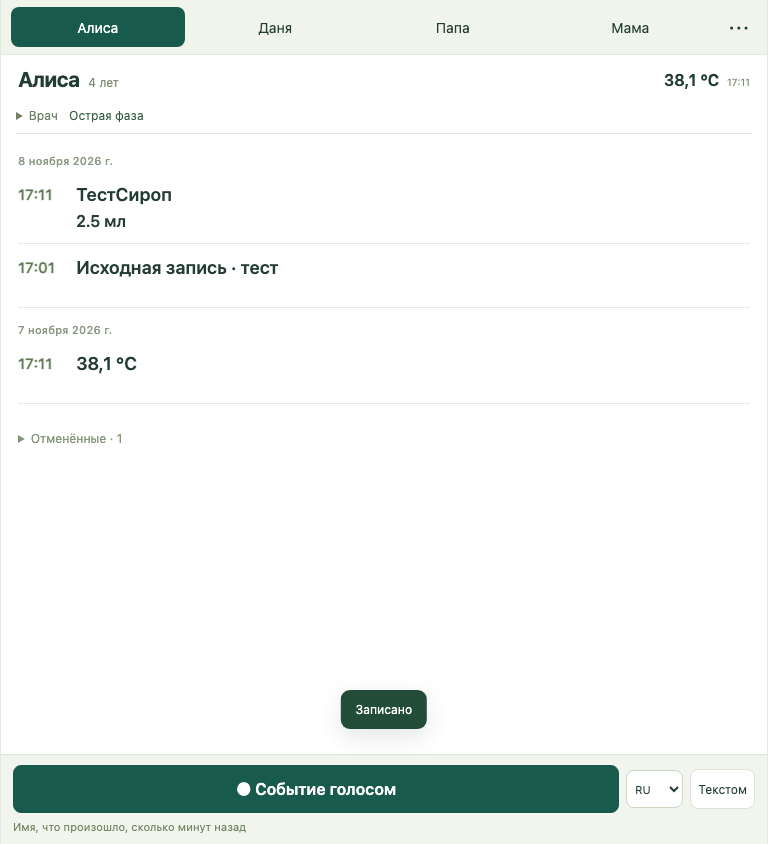
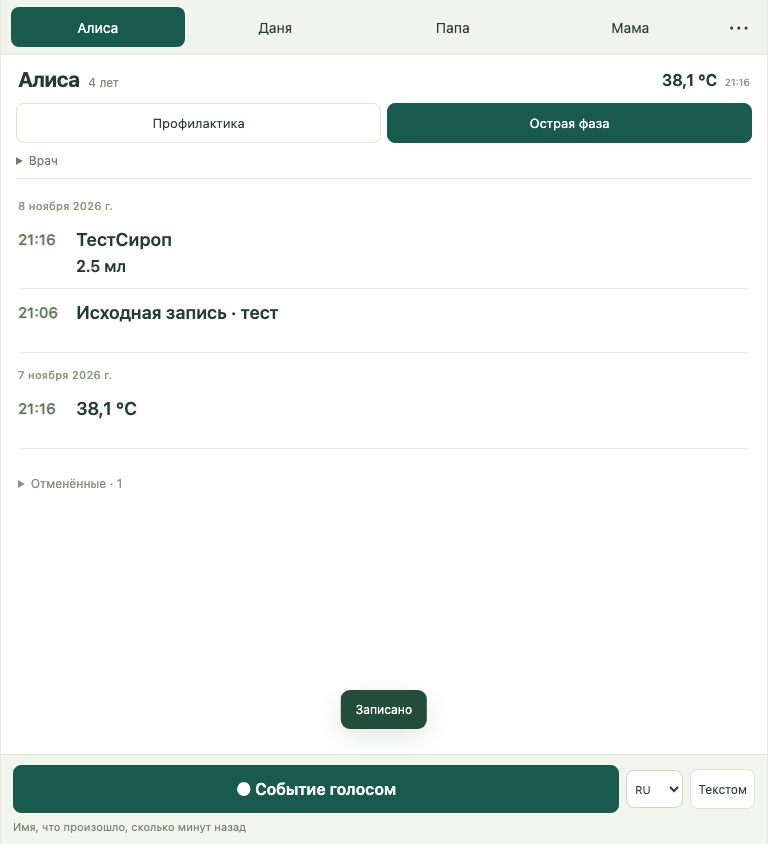
Replace patient phase dropdown with two always visible buttons

diff --git a/site/public/style.css b/site/public/style.css
@@ -1,3 +1,5 @@
-:root{font-family:-apple-system,BlinkMacSystemFont,"Segoe UI",sans-serif;color:#243d33;background:#f5f6f2;font-size:16px;--screen-height:100dvh}*{box-sizing:border-box}body{margin:0}button,input,select,textarea{font:inherit;color:inherit}button,select{cursor:pointer}button{border:1px solid #dce4d7;background:#fff;border-radius:8px;padding:9px 12px;min-height:42px}button:hover{background:#eef4e9}button.primary,.voice{background:#185b4c;color:#fff;border-color:#185b4c}button:disabled{opacity:.55;cursor:default}input,select,textarea{width:100%;border:1px solid #cbd8c4;border-radius:8px;padding:10px;background:white;font-size:16px}textarea{resize:vertical;line-height:1.45}label{display:grid;gap:6px;font-size:13px;margin:12px 0}h1,h2,p{margin-top:0}a{color:#185b4c}button:focus-visible,summary:focus-visible,a:focus-visible,input:focus-visible,select:focus-visible,textarea:focus-visible{outline:3px solid #89b5a0;outline-offset:2px}[hidden]{display:none!important}.patient-app{display:flex;flex-direction:column;height:var(--screen-height);max-width:920px;margin:auto;background:#fff;overflow:hidden;border-inline:1px solid #e4e9df}.patient-nav{display:flex;gap:4px;padding:7px 10px;border-bottom:1px solid #e3e9dc;flex-shrink:0;background:#f0f4eb}.patient-nav button{flex:1;min-width:0;font-size:14px;border-color:transparent;background:transparent;padding:8px 6px;min-height:40px;overflow:hidden;text-overflow:ellipsis;white-space:nowrap}.patient-nav button[aria-pressed="true"]{background:#185b4c;color:#fff}.patient-nav .more{flex:0 0 36px;font-size:23px;padding:3px}.patient-summary{display:flex;align-items:center;gap:12px;padding:11px 17px 5px;flex-shrink:0}.patient-summary h1{font-size:21px;letter-spacing:-.5px;margin:0;flex:1;line-height:1.3}.patient-summary h1 small{font-size:12px;font-weight:400;color:#7b8b71;margin-left:9px;letter-spacing:0}.last-temperature{font-size:16px;font-weight:650;white-space:nowrap}.last-temperature time{font-size:10px;font-weight:400;color:#839377;margin-left:4px}.doctor{margin:0 15px 5px;flex-shrink:0;max-height:50%;overflow:auto;border-bottom:1px solid #e2e8dc}.doctor>summary{cursor:pointer;font-size:12px;padding:10px 0;color:#6e8064}.doctor>summary>span{color:#315b42;margin-left:8px}.doctor-body{padding:0 0 12px}.doctor-body>label{display:flex;align-items:center;gap:10px;font-size:12px}.doctor-body>label select{font-size:13px;padding:7px;max-width:220px}.patient-history{flex:1;overflow:auto;min-height:0;padding:0 17px 15px;overscroll-behavior:contain}.day{font-size:11px;color:#8c9983;font-weight:500;margin:15px 0 4px;letter-spacing:.2px}.record{border-bottom:1px solid #e7ecdf}.record>summary{display:flex;align-items:flex-start;gap:14px;padding:12px 0;min-height:63px;cursor:pointer;list-style:none}.record>summary::-webkit-details-marker{display:none}.record>summary>time{flex-shrink:0;min-width:44px;font-size:15px;font-weight:550;color:#607957;padding-top:2px}.record>summary>div{min-width:0;flex:1}.record strong{display:-webkit-box;-webkit-line-clamp:2;-webkit-box-orient:vertical;overflow:hidden;font-size:18px;font-weight:600;line-height:1.3;overflow-wrap:anywhere}.record b{display:block;font-size:16px;font-weight:600;margin-top:4px;line-height:1.3}.record span{display:block;font-size:11px;margin-top:4px;color:#829177}.record-details{padding:0 0 12px 58px;font-size:12px;line-height:1.6}.record-details p{margin:5px 0;overflow-wrap:anywhere;white-space:pre-wrap}.record-details button{font-size:12px;min-height:38px;padding:7px 10px}.record.void strong{color:#9ba68f;text-decoration:line-through}.cancelled{margin-top:18px;font-size:12px;color:#859579}.cancelled>summary{padding:9px 0;cursor:pointer}.quiet{font-size:13px;color:#8c9c81;line-height:1.6;margin:18px 0}.composer{flex-shrink:0;border-top:1px solid #dbe5d4;padding:10px 12px calc(10px + env(safe-area-inset-bottom));background:#f1f5ed}.composer textarea{display:block;min-height:45px;max-height:100px;resize:none;font-size:16px;background:#fff}.composer-actions{display:flex;align-items:center;gap:7px;margin-top:7px}.composer-actions button{font-size:13px;min-height:40px;padding:8px 11px;white-space:nowrap}.composer-actions #language{width:57px;flex-shrink:0;font-size:11px;padding:7px 4px;min-height:38px}.voice-status{font-size:11px;color:#728666;margin-right:auto;white-space:nowrap}.composer-actions .template{padding:5px;flex:0 0 28px;min-width:28px;border-color:transparent;background:transparent}.voice.recording{background:#a34435;border-color:#a34435}.order{display:flex;align-items:center;gap:12px;padding:11px 0;border-top:1px solid #e4e9de}.order>div{flex:1;min-width:0}.order strong,.order b,.order span,.order small{display:block;overflow-wrap:anywhere}.order strong{font-size:16px;font-weight:600}.order b{font-size:14px;margin-top:3px}.order span{font-size:12px;color:#657e59;margin-top:3px;line-height:1.5}.order small{font-size:10px;color:#9a8456;margin-top:4px}.order button{font-size:11px;min-height:38px;padding:7px}.order.draft{background:#fbf9f2}.source-actions{display:flex;gap:8px;margin-top:12px}.source-actions button{font-size:12px;min-height:38px}.sources{font-size:12px;padding:10px 0;color:#708264}.sources summary{cursor:pointer}.sources button{display:block;margin:7px 0;font-size:11px;text-align:left}.start{max-width:500px;margin:60px auto;padding:25px}.start h1{font-size:28px}.loading{padding:25px}dialog{width:min(560px,calc(100% - 24px));max-height:90dvh;border:0;border-radius:16px;padding:23px;color:#243d33;box-shadow:0 20px 80px #1b392a30}dialog::backdrop{background:#20392b66;backdrop-filter:blur(3px)}.dialog-head{display:flex;align-items:center;justify-content:space-between;gap:15px;margin-bottom:16px}.dialog-head h2{font-size:20px;letter-spacing:-.5px;line-height:1.25;margin:0}.dialog-head button{padding:4px;min-width:36px;min-height:36px;font-size:22px}.dialog-footer{display:flex;justify-content:flex-end;gap:8px;margin-top:20px}.dialog-footer button{font-size:13px}.dose-fields{display:grid;grid-template-columns:1fr 1fr;gap:12px}.dose-fields label{min-width:0}.preview>label:first-child{margin-top:0}.preview details{font-size:12px;margin-top:13px}.preview summary{cursor:pointer;color:#748568;padding:6px 0}.parse-notes{font-size:12px;color:#96753d;line-height:1.55;margin:10px 0 0}.source-text{white-space:pre-wrap;overflow-wrap:anywhere;font-size:12px;color:#748469;line-height:1.7}.check{display:flex;align-items:start;gap:8px;line-height:1.5}.check input{width:18px;height:18px;flex-shrink:0;margin-top:1px}.document-image{max-width:100%;max-height:390px;object-fit:contain;border-radius:8px}.error{font-size:12px;color:#a44535;line-height:1.5;margin:12px 0 0}.error:empty{display:none}.tools{display:grid;gap:9px}.tools button{text-align:left;font-size:13px}.tools label{border:1px solid #dbe5d4;padding:11px;border-radius:8px;margin:0}.template-line{font-size:18px;line-height:1.5}dialog p,dialog ol{font-size:14px;line-height:1.6}dialog li{margin:10px 0}#toast{position:fixed;bottom:calc(145px + env(safe-area-inset-bottom));left:50%;transform:translateX(-50%);max-width:calc(100% - 30px);font-size:12px;color:white;background:#234d39;padding:10px 15px;border-radius:9px;z-index:12;box-shadow:0 8px 24px #203e2520}#toast:empty{display:none}@media(max-width:360px){.patient-nav{padding:6px;gap:2px}.patient-nav button{font-size:12px;padding:7px 4px}.patient-summary{padding-inline:12px}.patient-history{padding-inline:12px}.composer{padding-inline:8px}.composer-actions{gap:4px}.composer-actions button{font-size:12px;padding:8px}.voice-status{font-size:9px}.composer-actions #language{width:47px}.composer-actions .template{flex-basis:22px;min-width:22px}dialog{padding:18px}.last-temperature{font-size:14px}}@media(min-width:1000px){.patient-app{border-inline:1px solid #dfe6d7}.patient-history{padding-inline:24px}.patient-summary{padding-inline:24px}.composer{padding:12px 23px}.patient-nav{padding-inline:19px}}
+:root{font-family:-apple-system,BlinkMacSystemFont,"Segoe UI",sans-serif;color:#243d33;background:#f5f6f2;font-size:16px;--screen-height:100dvh}*{box-sizing:border-box}body{margin:0}button,input,select,textarea{font:inherit;color:inherit}button,select{cursor:pointer}button{border:1px solid #dce4d7;background:#fff;border-radius:8px;padding:9px 12px;min-height:42px}button:hover{background:#eef4e9}button.primary,.voice{background:#185b4c;color:#fff;border-color:#185b4c}button:disabled{opacity:.55;cursor:default}input,select,textarea{width:100%;border:1px solid #cbd8c4;border-radius:8px;padding:10px;background:white;font-size:16px}textarea{resize:vertical;line-height:1.45}label{display:grid;gap:6px;font-size:13px;margin:12px 0}h1,h2,p{margin-top:0}a{color:#185b4c}button:focus-visible,summary:focus-visible,a:focus-visible,input:focus-visible,select:focus-visible,textarea:focus-visible{outline:3px solid #89b5a0;outline-offset:2px}[hidden]{display:none!important}.patient-app{display:flex;flex-direction:column;height:var(--screen-height);max-width:920px;margin:auto;background:#fff;overflow:hidden;border-inline:1px solid #e4e9df}.patient-nav{display:flex;gap:4px;padding:7px 10px;border-bottom:1px solid #e3e9dc;flex-shrink:0;background:#f0f4eb}.patient-nav button{flex:1;min-width:0;font-size:14px;border-color:transparent;background:transparent;padding:8px 6px;min-height:40px;overflow:hidden;text-overflow:ellipsis;white-space:nowrap}.patient-nav button[aria-pressed="true"]{background:#185b4c;color:#fff}.patient-nav .more{flex:0 0 36px;font-size:23px;padding:3px}.patient-summary{display:flex;align-items:center;gap:12px;padding:11px 17px 5px;flex-shrink:0}.patient-summary h1{font-size:21px;letter-spacing:-.5px;margin:0;flex:1;line-height:1.3}.patient-summary h1 small{font-size:12px;font-weight:400;color:#7b8b71;margin-left:9px;letter-spacing:0}.last-temperature{font-size:16px;font-weight:650;white-space:nowrap}.last-temperature time{font-size:10px;font-weight:400;color:#839377;margin-left:4px}.doctor{margin:0 15px 5px;flex-shrink:0;max-height:50%;overflow:auto;border-bottom:1px solid #e2e8dc}.doctor>summary{cursor:pointer;font-size:12px;padding:10px 0;color:#6e8064}.doctor>summary>span{color:#315b42;margin-left:8px}.doctor-body{padding:0 0 12px}.patient-history{flex:1;overflow:auto;min-height:0;padding:0 17px 15px;overscroll-behavior:contain}.day{font-size:11px;color:#8c9983;font-weight:500;margin:15px 0 4px;letter-spacing:.2px}.record{border-bottom:1px solid #e7ecdf}.record>summary{display:flex;align-items:flex-start;gap:14px;padding:12px 0;min-height:63px;cursor:pointer;list-style:none}.record>summary::-webkit-details-marker{display:none}.record>summary>time{flex-shrink:0;min-width:44px;font-size:15px;font-weight:550;color:#607957;padding-top:2px}.record>summary>div{min-width:0;flex:1}.record strong{display:-webkit-box;-webkit-line-clamp:2;-webkit-box-orient:vertical;overflow:hidden;font-size:18px;font-weight:600;line-height:1.3;overflow-wrap:anywhere}.record b{display:block;font-size:16px;font-weight:600;margin-top:4px;line-height:1.3}.record span{display:block;font-size:11px;margin-top:4px;color:#829177}.record-details{padding:0 0 12px 58px;font-size:12px;line-height:1.6}.record-details p{margin:5px 0;overflow-wrap:anywhere;white-space:pre-wrap}.record-details button{font-size:12px;min-height:38px;padding:7px 10px}.record.void strong{color:#9ba68f;text-decoration:line-through}.cancelled{margin-top:18px;font-size:12px;color:#859579}.cancelled>summary{padding:9px 0;cursor:pointer}.quiet{font-size:13px;color:#8c9c81;line-height:1.6;margin:18px 0}.composer{flex-shrink:0;border-top:1px solid #dbe5d4;padding:10px 12px calc(10px + env(safe-area-inset-bottom));background:#f1f5ed}.composer textarea{display:block;min-height:45px;max-height:100px;resize:none;font-size:16px;background:#fff}.composer-actions{display:flex;align-items:center;gap:7px;margin-top:7px}.composer-actions button{font-size:13px;min-height:40px;padding:8px 11px;white-space:nowrap}.composer-actions #language{width:57px;flex-shrink:0;font-size:11px;padding:7px 4px;min-height:38px}.voice-status{font-size:11px;color:#728666;margin-right:auto;white-space:nowrap}.composer-actions .template{padding:5px;flex:0 0 28px;min-width:28px;border-color:transparent;background:transparent}.voice.recording{background:#a34435;border-color:#a34435}.order{display:flex;align-items:center;gap:12px;padding:11px 0;border-top:1px solid #e4e9de}.order>div{flex:1;min-width:0}.order strong,.order b,.order span,.order small{display:block;overflow-wrap:anywhere}.order strong{font-size:16px;font-weight:600}.order b{font-size:14px;margin-top:3px}.order span{font-size:12px;color:#657e59;margin-top:3px;line-height:1.5}.order small{font-size:10px;color:#9a8456;margin-top:4px}.order button{font-size:11px;min-height:38px;padding:7px}.order.draft{background:#fbf9f2}.source-actions{display:flex;gap:8px;margin-top:12px}.source-actions button{font-size:12px;min-height:38px}.sources{font-size:12px;padding:10px 0;color:#708264}.sources summary{cursor:pointer}.sources button{display:block;margin:7px 0;font-size:11px;text-align:left}.start{max-width:500px;margin:60px auto;padding:25px}.start h1{font-size:28px}.loading{padding:25px}dialog{width:min(560px,calc(100% - 24px));max-height:90dvh;border:0;border-radius:16px;padding:23px;color:#243d33;box-shadow:0 20px 80px #1b392a30}dialog::backdrop{background:#20392b66;backdrop-filter:blur(3px)}.dialog-head{display:flex;align-items:center;justify-content:space-between;gap:15px;margin-bottom:16px}.dialog-head h2{font-size:20px;letter-spacing:-.5px;line-height:1.25;margin:0}.dialog-head button{padding:4px;min-width:36px;min-height:36px;font-size:22px}.dialog-footer{display:flex;justify-content:flex-end;gap:8px;margin-top:20px}.dialog-footer button{font-size:13px}.dose-fields{display:grid;grid-template-columns:1fr 1fr;gap:12px}.dose-fields label{min-width:0}.preview>label:first-child{margin-top:0}.preview details{font-size:12px;margin-top:13px}.preview summary{cursor:pointer;color:#748568;padding:6px 0}.parse-notes{font-size:12px;color:#96753d;line-height:1.55;margin:10px 0 0}.source-text{white-space:pre-wrap;overflow-wrap:anywhere;font-size:12px;color:#748469;line-height:1.7}.check{display:flex;align-items:start;gap:8px;line-height:1.5}.check input{width:18px;height:18px;flex-shrink:0;margin-top:1px}.document-image{max-width:100%;max-height:390px;object-fit:contain;border-radius:8px}.error{font-size:12px;color:#a44535;line-height:1.5;margin:12px 0 0}.error:empty{display:none}.tools{display:grid;gap:9px}.tools button{text-align:left;font-size:13px}.tools label{border:1px solid #dbe5d4;padding:11px;border-radius:8px;margin:0}.template-line{font-size:18px;line-height:1.5}dialog p,dialog ol{font-size:14px;line-height:1.6}dialog li{margin:10px 0}#toast{position:fixed;bottom:calc(145px + env(safe-area-inset-bottom));left:50%;transform:translateX(-50%);max-width:calc(100% - 30px);font-size:12px;color:white;background:#234d39;padding:10px 15px;border-radius:9px;z-index:12;box-shadow:0 8px 24px #203e2520}#toast:empty{display:none}@media(max-width:360px){.patient-nav{padding:6px;gap:2px}.patient-nav button{font-size:12px;padding:7px 4px}.patient-summary{padding-inline:12px}.patient-history{padding-inline:12px}.composer{padding-inline:8px}.composer-actions{gap:4px}.composer-actions button{font-size:12px;padding:8px}.voice-status{font-size:9px}.composer-actions #language{width:47px}.composer-actions .template{flex-basis:22px;min-width:22px}dialog{padding:18px}.last-temperature{font-size:14px}}@media(min-width:1000px){.patient-app{border-inline:1px solid #dfe6d7}.patient-history{padding-inline:24px}.patient-summary{padding-inline:24px}.composer{padding:12px 23px}.patient-nav{padding-inline:19px}}
 
 .composer-actions{margin-top:0}.composer-actions .voice{flex:1;font-size:16px;font-weight:600;min-height:48px}.composer-actions .text-toggle{font-size:12px;padding-inline:7px}.voice-status{margin:7px 0 0;font-size:11px;color:#728666;min-height:14px}.text-entry{display:flex;gap:7px;margin-top:8px}.text-entry textarea{flex:1;min-width:0}.text-entry button{font-size:12px}#toast{bottom:calc(115px + env(safe-area-inset-bottom));line-height:1.6;text-align:center}#toast button{display:inline-block;min-height:36px;margin:5px 0 0 10px;padding:5px 10px;font-size:12px;color:#fff;border-color:#729d80;background:transparent}@media(max-width:360px){.composer-actions .voice{font-size:14px}}
+
+.phase-switch{display:flex;flex-shrink:0;gap:6px;margin:5px 15px 0}.phase-switch button{flex:1;min-width:0;min-height:40px;font-size:13px;padding:8px}.phase-switch button[aria-pressed=true]{background:#185b4c;border-color:#185b4c;color:#fff}

diff --git a/site/public/app.js b/site/public/app.js
@@ -38,11 +38,11 @@ async function refresh(){
 function render(){
   if(!state.people.length){root.innerHTML='<main class="start"><h1>Медика</h1><button data-act="person">Добавить пациента</button></main>';return;}
   const p=current(),all=records(),active=all.filter(r=>r.status!=='void'),cancelled=all.filter(r=>r.status==='void'),last=active.find(r=>r.kind==='temperature');
-  root.innerHTML=`<div class="patient-app"><header class="patient-nav" aria-label="Пациенты">${state.people.map(p=>`<button data-patient="${p.id}" aria-pressed="${p.id===patientId}" ${busy||recording?'disabled':''}>${e(label(p))}</button>`).join('')}<button class="more" data-act="tools" aria-label="Ещё">⋯</button></header><section class="patient-summary"><h1>${e(label(p))}${p.ageYears!=null?`<small>${p.ageYears} лет</small>`:''}</h1>${last?`<span class="last-temperature">${value(last)} <time>${time(last)}</time></span>`:''}</section><details class="doctor"><summary>Врач <span>${e(phases[p.carePhase||''])}</span></summary><div class="doctor-body"><label>Контекст<select id="care-phase">${Object.entries(phases).map(([v,l])=>`<option value="${v}" ${v===(p.carePhase||'')?'selected':''}>${l}</option>`).join('')}</select></label>${doctorPlan()}<div class="source-actions"><button data-act="upload">Выписка</button><button data-act="rx">Назначение</button></div></div></details><main class="patient-history" aria-label="История пациента">${active.length?historyRows(active):'<p class="quiet">Событий пока нет</p>'}${cancelled.length?`<details class="cancelled"><summary>Отменённые · ${cancelled.length}</summary>${historyRows(cancelled)}</details>`:''}</main><form id="composer" class="composer" aria-label="Общее событие для семьи"><div class="composer-actions"><button type="button" class="voice ${recording?'recording':''}" data-act="voice" ${busy?'disabled':''}>${recording?'■ Отправить':'● Событие голосом'}</button><select id="language" aria-label="Язык диктовки" ${busy||recording?'disabled':''}><option value="ru" ${language==='ru'?'selected':''}>RU</option><option value="en" ${language==='en'?'selected':''}>EN</option></select><button type="button" class="text-toggle" data-act="text" ${busy||recording?'disabled':''}>Текстом</button></div><div class="voice-status" role="status">${busy?'Распознаю и записываю…':recording?'Скажите имя и событие · пауза отправит запись':'Имя, что произошло, сколько минут назад'}</div>${textEntry?`<div class="text-entry"><textarea id="phrase" name="text" rows="1" placeholder="Даня, две минуты назад температура 38,2" aria-label="Запись одной фразой" ${busy||recording?'disabled':''}>${e(phrase)}</textarea><button type="submit" class="primary" ${busy||recording?'disabled':''}>Проверить</button></div>`:''}</form></div>`;
+  root.innerHTML=`<div class="patient-app"><header class="patient-nav" aria-label="Пациенты">${state.people.map(p=>`<button data-patient="${p.id}" aria-pressed="${p.id===patientId}" ${busy||recording?'disabled':''}>${e(label(p))}</button>`).join('')}<button class="more" data-act="tools" aria-label="Ещё">⋯</button></header><section class="patient-summary"><h1>${e(label(p))}${p.ageYears!=null?`<small>${p.ageYears} лет</small>`:''}</h1>${last?`<span class="last-temperature">${value(last)} <time>${time(last)}</time></span>`:''}</section><div class="phase-switch" role="group" aria-label="Режим лечения">${['prevention','acute'].map(v=>`<button type="button" data-care-phase="${v}" aria-pressed="${p.carePhase===v}" ${busy||recording?'disabled':''}>${e(phases[v])}</button>`).join('')}</div><details class="doctor"><summary>Врач</summary><div class="doctor-body">${doctorPlan()}<div class="source-actions"><button data-act="upload">Выписка</button><button data-act="rx">Назначение</button></div></div></details><main class="patient-history" aria-label="История пациента">${active.length?historyRows(active):'<p class="quiet">Событий пока нет</p>'}${cancelled.length?`<details class="cancelled"><summary>Отменённые · ${cancelled.length}</summary>${historyRows(cancelled)}</details>`:''}</main><form id="composer" class="composer" aria-label="Общее событие для семьи"><div class="composer-actions"><button type="button" class="voice ${recording?'recording':''}" data-act="voice" ${busy?'disabled':''}>${recording?'■ Отправить':'● Событие голосом'}</button><select id="language" aria-label="Язык диктовки" ${busy||recording?'disabled':''}><option value="ru" ${language==='ru'?'selected':''}>RU</option><option value="en" ${language==='en'?'selected':''}>EN</option></select><button type="button" class="text-toggle" data-act="text" ${busy||recording?'disabled':''}>Текстом</button></div><div class="voice-status" role="status">${busy?'Распознаю и записываю…':recording?'Скажите имя и событие · пауза отправит запись':'Имя, что произошло, сколько минут назад'}</div>${textEntry?`<div class="text-entry"><textarea id="phrase" name="text" rows="1" placeholder="Даня, две минуты назад температура 38,2" aria-label="Запись одной фразой" ${busy||recording?'disabled':''}>${e(phrase)}</textarea><button type="submit" class="primary" ${busy||recording?'disabled':''}>Проверить</button></div>`:''}</form></div>`;
   $('#composer').onsubmit=event=>{event.preventDefault();parsePhrase();};
   if($('#phrase'))$('#phrase').oninput=event=>phrase=event.target.value;
   $('#language').onchange=event=>{language=event.target.value;localStorage.setItem('medika-language',language);};
-  $('#care-phase').onchange=async event=>{try{await api('/people/'+p.id,{method:'PUT',body:{...p,carePhase:event.target.value,version:p.version}});await refresh();$('.doctor').open=true;}catch(error){toast(error.message);}};
+  root.querySelectorAll('[data-care-phase]').forEach(button=>button.onclick=async()=>{const carePhase=button.dataset.carePhase;if(busy||recording||carePhase===p.carePhase)return;busy=true;render();try{await api('/people/'+p.id,{method:'PUT',body:{...p,carePhase,version:p.version}});await refresh();}catch(error){toast(error.message);}finally{busy=false;render();$('.doctor').open=true;}});
 }
 function historyRows(rows){
   let previous='';return rows.map(r=>{const day=date(r),heading=day!==previous?`<h2 class="day">${e(day)}</h2>`:'';previous=day;return `${heading}<details class="record ${r.status==='void'?'void':''}" data-record="${r.id}"><summary><time>${time(r)}</time><div><strong>${e(title(r))}</strong>${amount(r)?`<b>${e(amount(r))}</b>`:''}${r.status==='skipped'?'<span>Пропущено</span>':r.status==='deferred'?'<span>Отложено</span>':''}</div></summary><div class="record-details">${r.carePhase?`<p>${e(phases[r.carePhase])}</p>`:''}${r.relatedRxId?`<p>Связано с назначением: ${e(state.prescriptions.find(x=>x.id===r.relatedRxId)?.name||'из истории')}</p>`:''}${r.strength?`<p>${e(r.strength)}</p>`:''}${r.note?`<p>${e(r.note)}</p>`:''}${r.sourceText?`<p class="source-text">${e(r.sourceText)}</p>`:''}${r.status==='void'?`<p>Отменено: ${e(r.voidReason)}</p>`:`<button data-act="void" data-source="${r.source}" data-id="${r.id}">Отменить запись</button>`}</div></details>`;}).join('');

diff --git a/PROJECT.md b/PROJECT.md
@@ -61,3 +61,5 @@
 Проверки: `npm --prefix site test` и `site/scripts/canary.mjs` с Playwright. `MEDIKA_TEST_AI=1` включает настоящий разбор Terra на синтетических данных; без него unit/API и базовый canary используют локальный детерминированный разбор и не тратят подписку. Canary использует временную базу и синтетические фото/голос; проверяет ввод, Whisper, OCR, личную историю, отмену, перезапуск и восстановление. Все размеры интерфейса проверяются на одном приложении; фотографии/аудио пользователя не используются. Доступ с Mac проверен по LAN и HTTPS; физический iPad не проверен. Актуальные результаты: `reports/canary-result.json`, `reports/test-report.md`, `reports/https-access.json`, `reports/terra-live.json`, `reports/terra-cases.json`.
 
 В списке назначений показываются название, доза на приём и частота. Частота берётся из текущего подтверждённого расписания или явно указанной формулировки выписки; неизвестная не достраивается. Часы, дни недели и интервал между препаратами сохраняются короткой строкой. Повтор условия выбранной фазы и кнопки проверки убраны из строк; оригиналы, изменение и настройка курса доступны в «Выписки и настройка». Это изменение отображения не активирует курсы и не меняет назначения/историю.
+
+Режим пациента переключается двумя постоянно видимыми кнопками «Профилактика» / «Острая фаза» под именем. Выбранная кнопка подсвечена; одно нажатие сохраняет режим и раскрывает соответствующие назначения. До явного выбора у пациента без режима обе кнопки не выделены (сам режим автоматически не назначается). Во время сохранения/записи переключатель блокируется. Прошлые события сохраняют исходный контекст.
